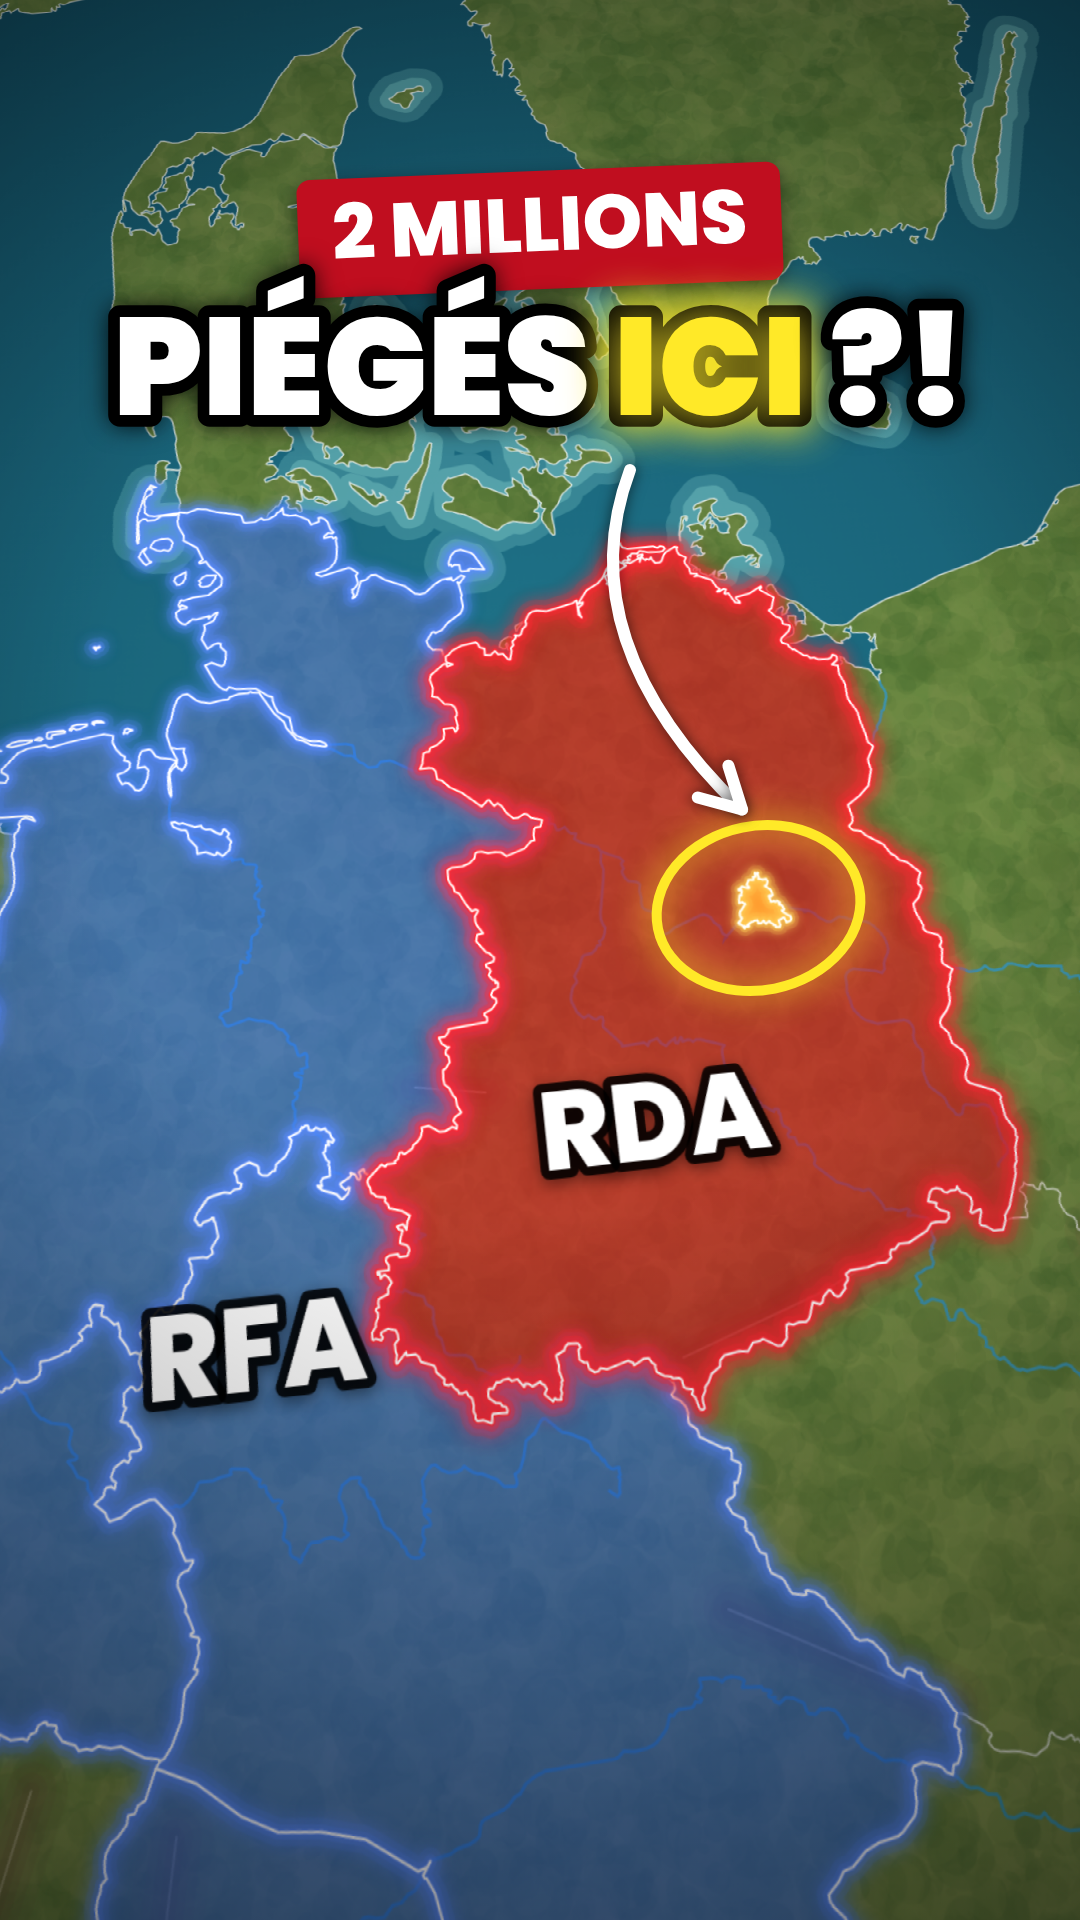
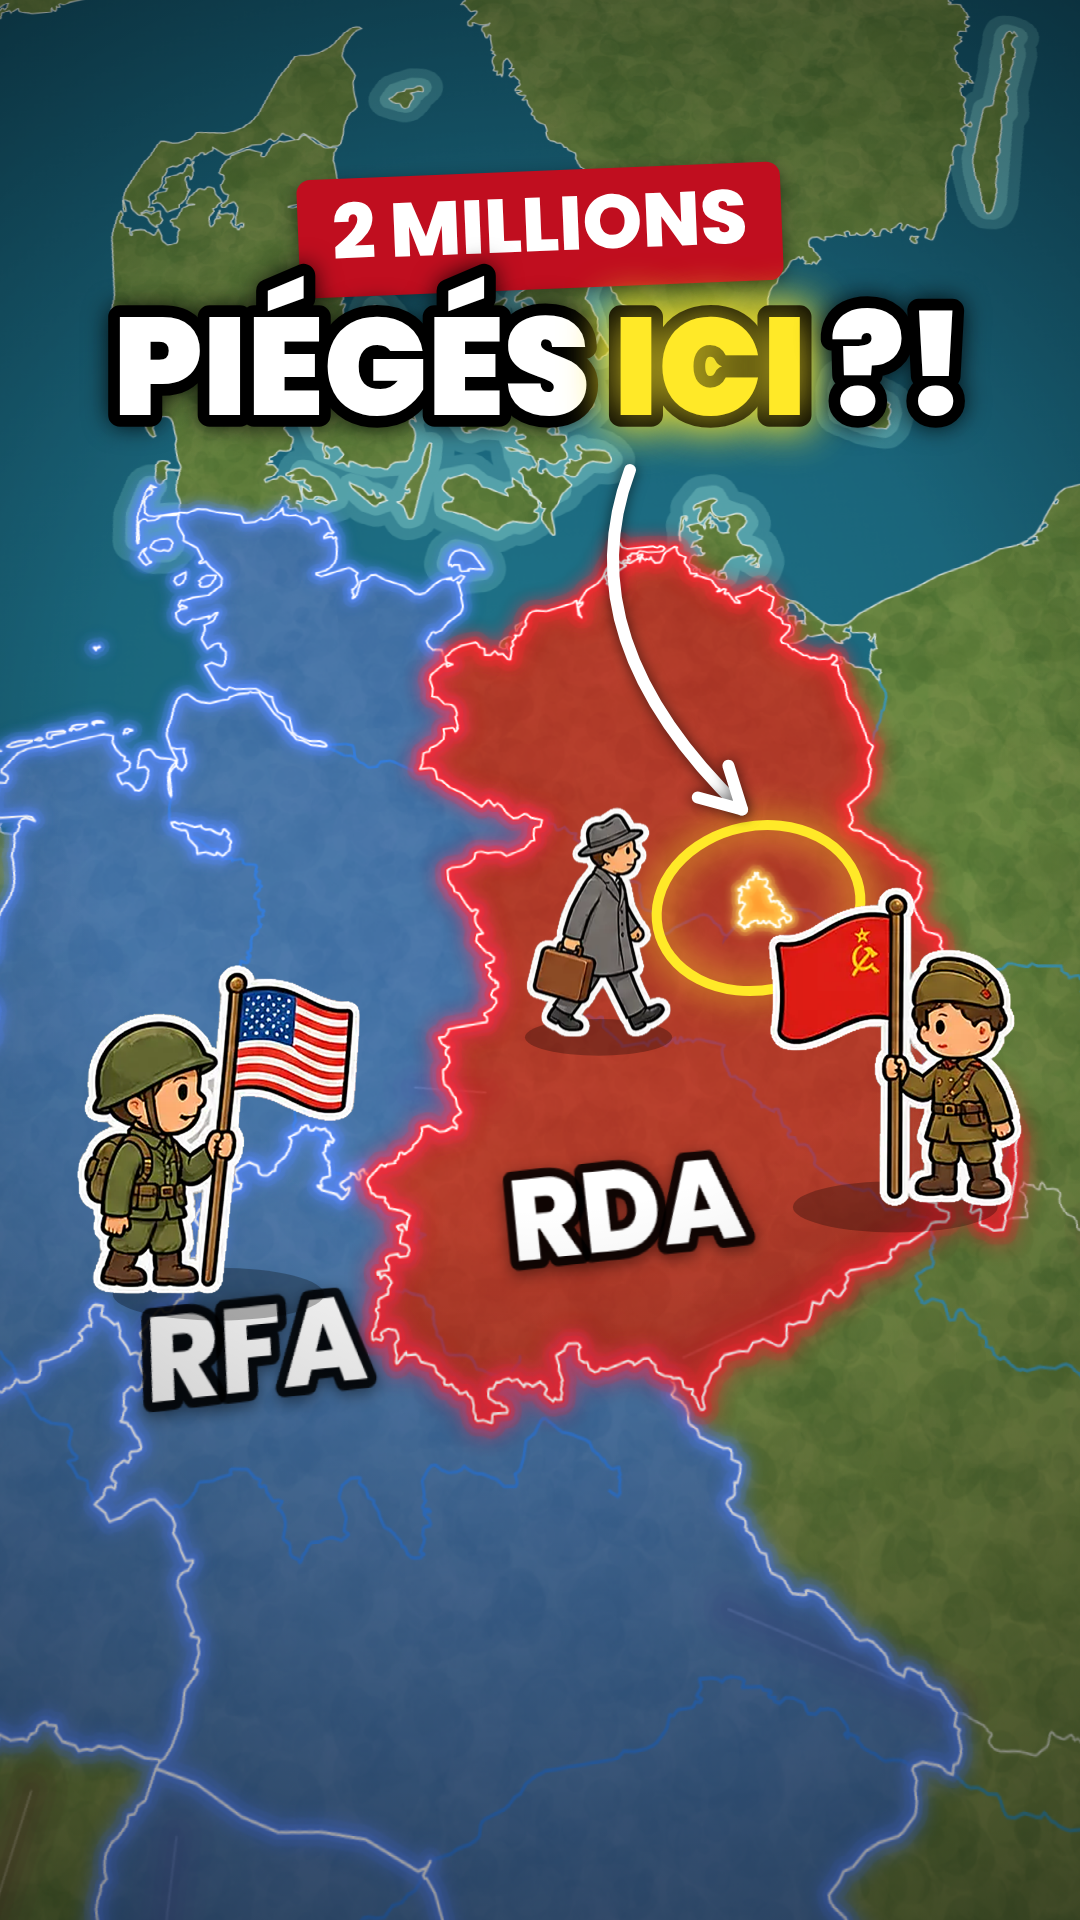
Miniatures : ajout des personnages 2D de la planche
Claude-Session: https://claude.ai/code/session_01X5g1rLMz8Vc96NC6EucERS

Changed region(s): [[0.4583, 0.4062, 0.9472, 0.6875], [0.0611, 0.5, 0.3361, 0.6875]]

diff --git a/berlin/build/thumb.js b/berlin/build/thumb.js
@@ -29,13 +29,16 @@ window.renderThumb = function (v) {
       fillGeo(FRG(), '#2f6bff', 0.55); neon(FRG(), '#5b8cff', 4);
       fillGeo(DATA.zones.su, '#e3121f', 0.62); neon(DATA.zones.su, '#ff2a35', 5);
       fillGeo(WB, '#ff9a2e', 1); neon(WB, '#ffd25a', 3);
-      mapLabel('RFA', 9.0, 50.6, 1, 0, 100); mapLabel('RDA', 12.2, 51.45, 1, 0, 100);
+      mapLabel('RFA', 9.0, 50.6, 1, 0, 100); mapLabel('RDA', 11.9, 51.05, 1, 0, 100);
     });
     const p = S(13.27, 52.48); const r = 80 * p.k;
     ctx.save(); ctx.strokeStyle = '#FFE928'; ctx.lineWidth = 10; ctx.shadowColor = '#FFE928'; ctx.shadowBlur = 34; ctx.beginPath(); ctx.ellipse(p.x, p.y, r * 1.25, r, -0.2, 0, 7); ctx.stroke(); ctx.restore();
     tag(ctx, '2 MILLIONS', W / 2, 230, { size: 76, rot: -0.04 });
     bigWords([['PIÉGÉS ', '#fff'], ['ICI', '#FFE928'], [' ?!', '#fff']], 380, 138);
     curvedArrow(W / 2 + 90, 470, p.x - r * 0.2, p.y - r * 1.2, -120);
+    { const q = S(8.6, 51.2); sprite(ctx, 'soldier_us', q.x + 20, q.y + 60, 330); }
+    { const q = S(13.9, 51.55); sprite(ctx, 'soldier_su', q.x + 30, q.y + 120, 320, { flip: true }); }
+    { const q = S(12.2, 52.1); sprite(ctx, 'walker_a', q.x - 40, q.y + 40, 230); }
     return p;
   }
   if (v === 'B') { // zoom Berlin : île orange + mer turquoise impossible — "UNE ÎLE SANS MER ?!"
@@ -48,7 +51,10 @@ window.renderThumb = function (v) {
     bigWords([['SANS ', '#fff'], ['MER', '#ff2a2a'], [' ?!', '#fff']], 430, 156);
     const p = S(13.25, 52.47);
     curvedArrow(W / 2 + 300, 520, p.x + 170, p.y - 250, 160);
-    tag(ctx, 'BERLIN-OUEST', p.x, p.y + 20, { size: 60, bg: '#C00E1F', border: '#fff' });
+    tag(ctx, 'BERLIN-OUEST', p.x, p.y - 150, { size: 60, bg: '#C00E1F', border: '#fff' });
+    sprite(ctx, 'soldier_us', p.x - 130, p.y + 470, 290);
+    sprite(ctx, 'soldier_uk', p.x + 150, p.y + 460, 290, { flip: true });
+    sprite(ctx, 'plane', 250, 640, 140, { rot: -0.1, shadow: false });
     return p;
   }
   if (v === 'C') { // le mur : île bleue cerclée d'un mur néon — "155 KM DE MUR"
@@ -61,7 +67,10 @@ window.renderThumb = function (v) {
     const p = S(13.27, 52.47);
     bigWords([['155 KM', '#FFE928']], 270, 170);
     bigWords([['DE ', '#fff'], ['MUR', '#ff2a2a'], [' ?!', '#fff']], 430, 140);
-    tag(ctx, 'BERLIN-OUEST', p.x, p.y, { size: 58, bg: '#1f5dff', border: '#fff' });
+    tag(ctx, 'BERLIN-OUEST', p.x, p.y - 40, { size: 58, bg: '#1f5dff', border: '#fff' });
+    sprite(ctx, 'worker_b', p.x - 170, p.y + 330, 300);
+    sprite(ctx, 'wire', p.x + 20, p.y + 330, 130);
+    sprite(ctx, 'soldier_su', p.x + 220, p.y + 330, 330, { flip: true });
     return p;
   }
 };
